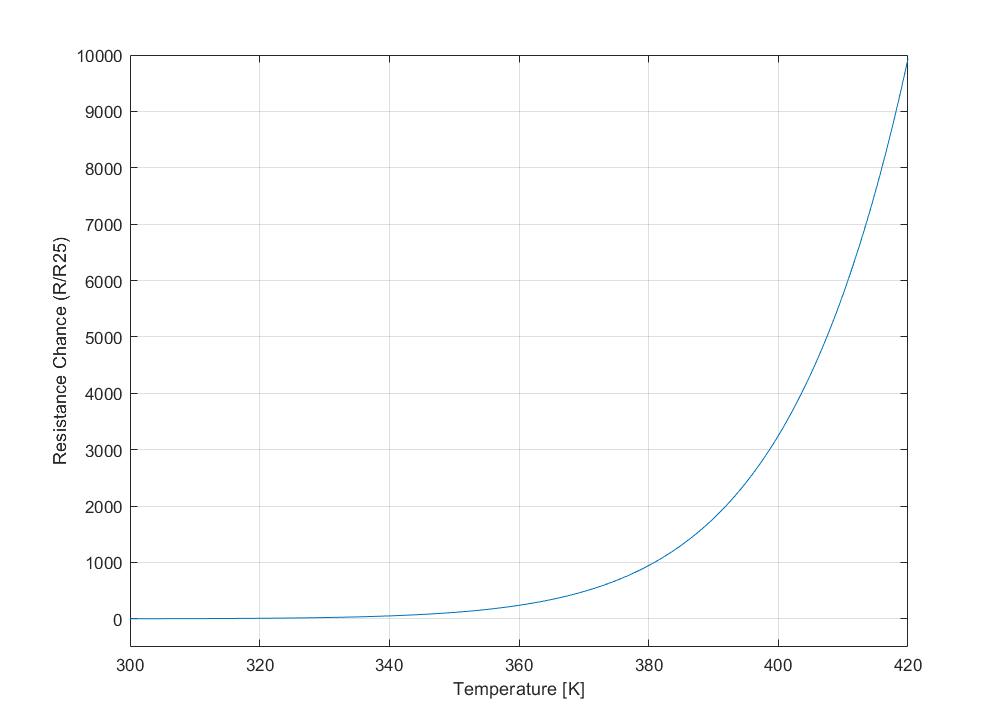
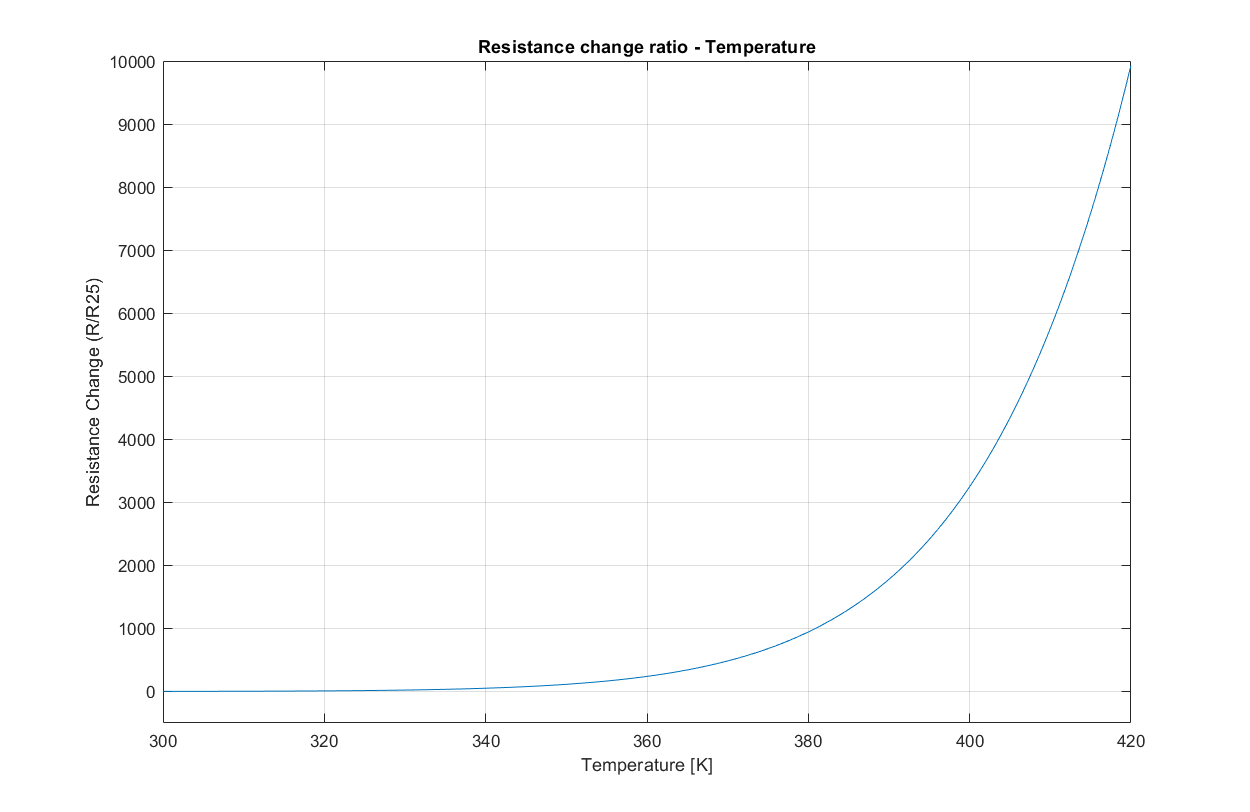
added other plots

diff --git a/res/plots/script/PTC.m b/res/plots/script/PTC.m
@@ -1,4 +1,4 @@
-clc, clf, clear, clearvars
+clc, clear, clearvars, close all
 
 % Define temperature range from 260 K to 420 K with intervals of 0.5 K
 T = 260 : 1/2 : 420;
@@ -16,14 +16,46 @@ R = R0 * exp(beta * (1 ./ T - 1/T0));
 % Calculate resistance ratio normalized to the resistance at 25°C
 R_ratio = R ./ R((25 + 273 - 260) * 2);
 
+% Set position vector for figure windows
+pos_vector = [250, 100, 1000, 650];
+
 % Plot 1: Resistance vs. Temperature (semilogarithmic scale)
-figure(1)
+f = figure(1);
+f.Position = pos_vector;
 semilogy(T, R), grid on;
 xlim([270 420]);
-xlabel("Temperature [K]"), ylabel("Resistance [Ω]")
+xlabel("Temperature [K]"), ylabel("Resistance [Ω]"), title("Resistance - Temperature")
 
 % Plot 2: Resistance Change (R/R25) vs. Temperature
-figure(2)
+f = figure(2);
+f.Position = pos_vector;
 plot(T, R_ratio), grid on;
 xlim([300 420]), ylim([-500 1e4])
-xlabel("Temperature [K]"), ylabel("Resistance Change (R/R25)")
+xlabel("Temperature [K]"), ylabel("Resistance Change (R/R25)"), title("Resistance change ratio - Temperature")
+
+% Define dissipation constant and reference temperature
+dissipation_constant = 4.5e-3;
+T0 = 298.15;
+
+% Calculate power, voltage, and current
+P = dissipation_constant * (T - T0);
+V = sqrt(R .* P);
+I = sqrt(P ./ R);
+
+% Plot 3: Current vs. Temperature (log-log scale)
+f = figure(3);
+f.Position = pos_vector;
+loglog(T, I), grid on;
+xlabel("Temperature [K]"), ylabel("Current [A]"), title("Current - Temperature")
+
+% Plot 4: Voltage vs. Temperature (log-log scale)
+f = figure(4);
+f.Position = pos_vector;
+loglog(T, V), grid on;
+xlabel("Temperature [K]"), ylabel("Voltage [V]"), title("Voltage - Temperature")
+
+% Plot 5: Current vs. Voltage (log-log scale)
+f = figure(5);
+f.Position = pos_vector;
+loglog(V, I), grid on;
+xlabel("Voltage [V]"), ylabel("Current [A]"), title("Current - Voltage")
